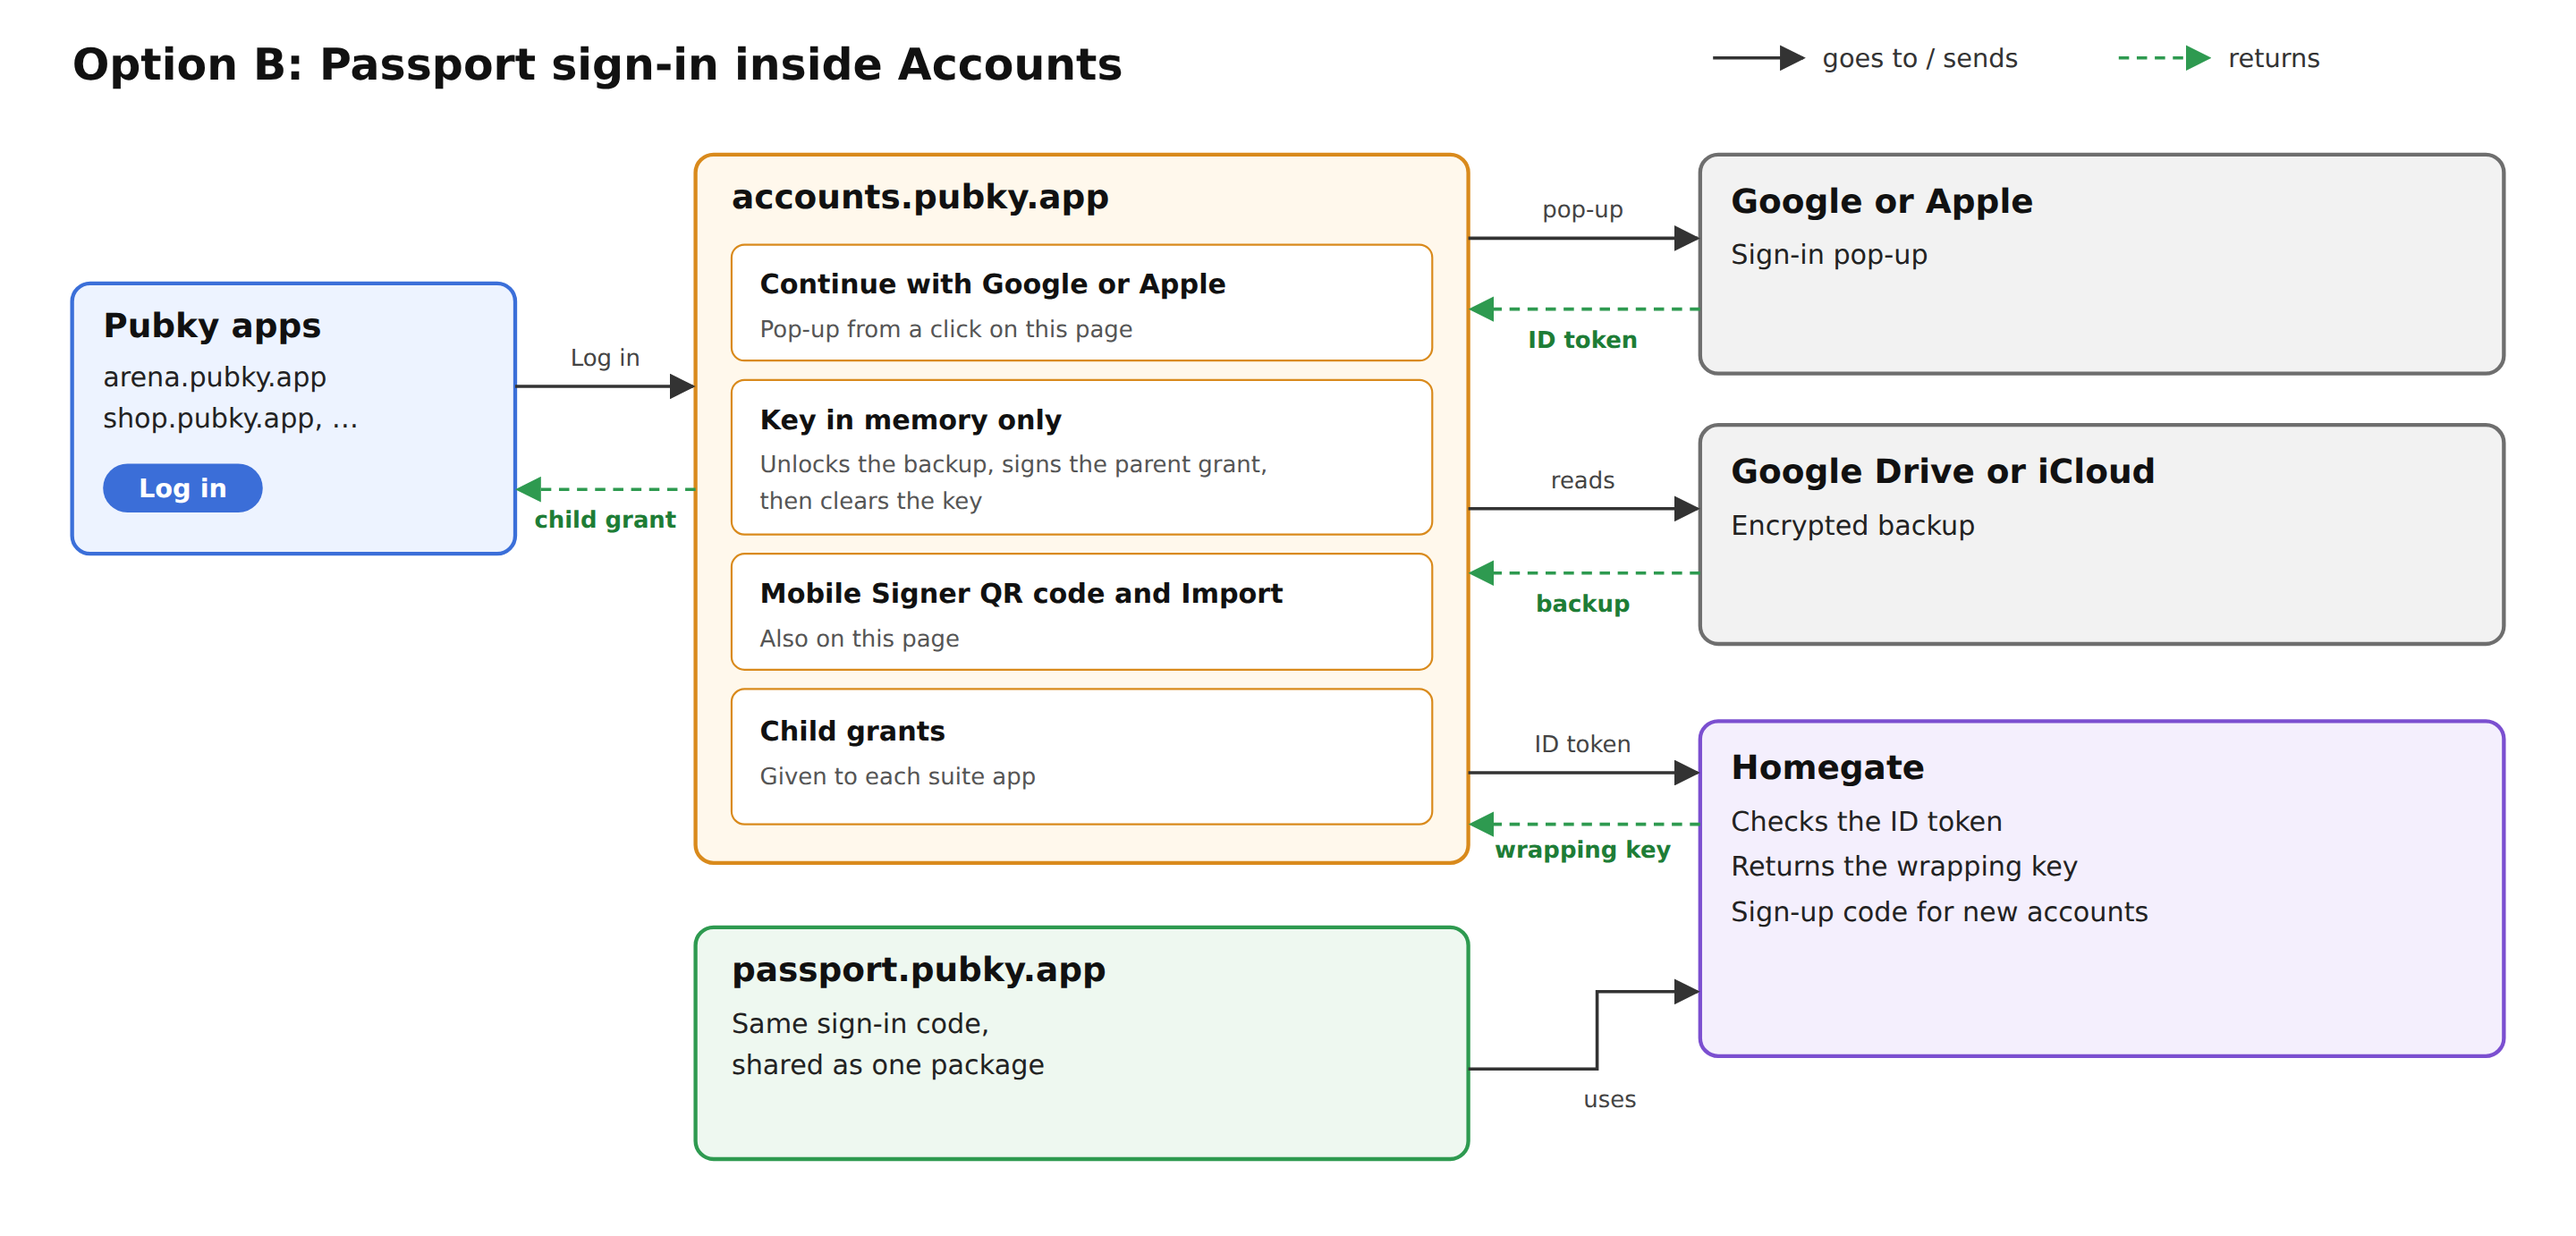
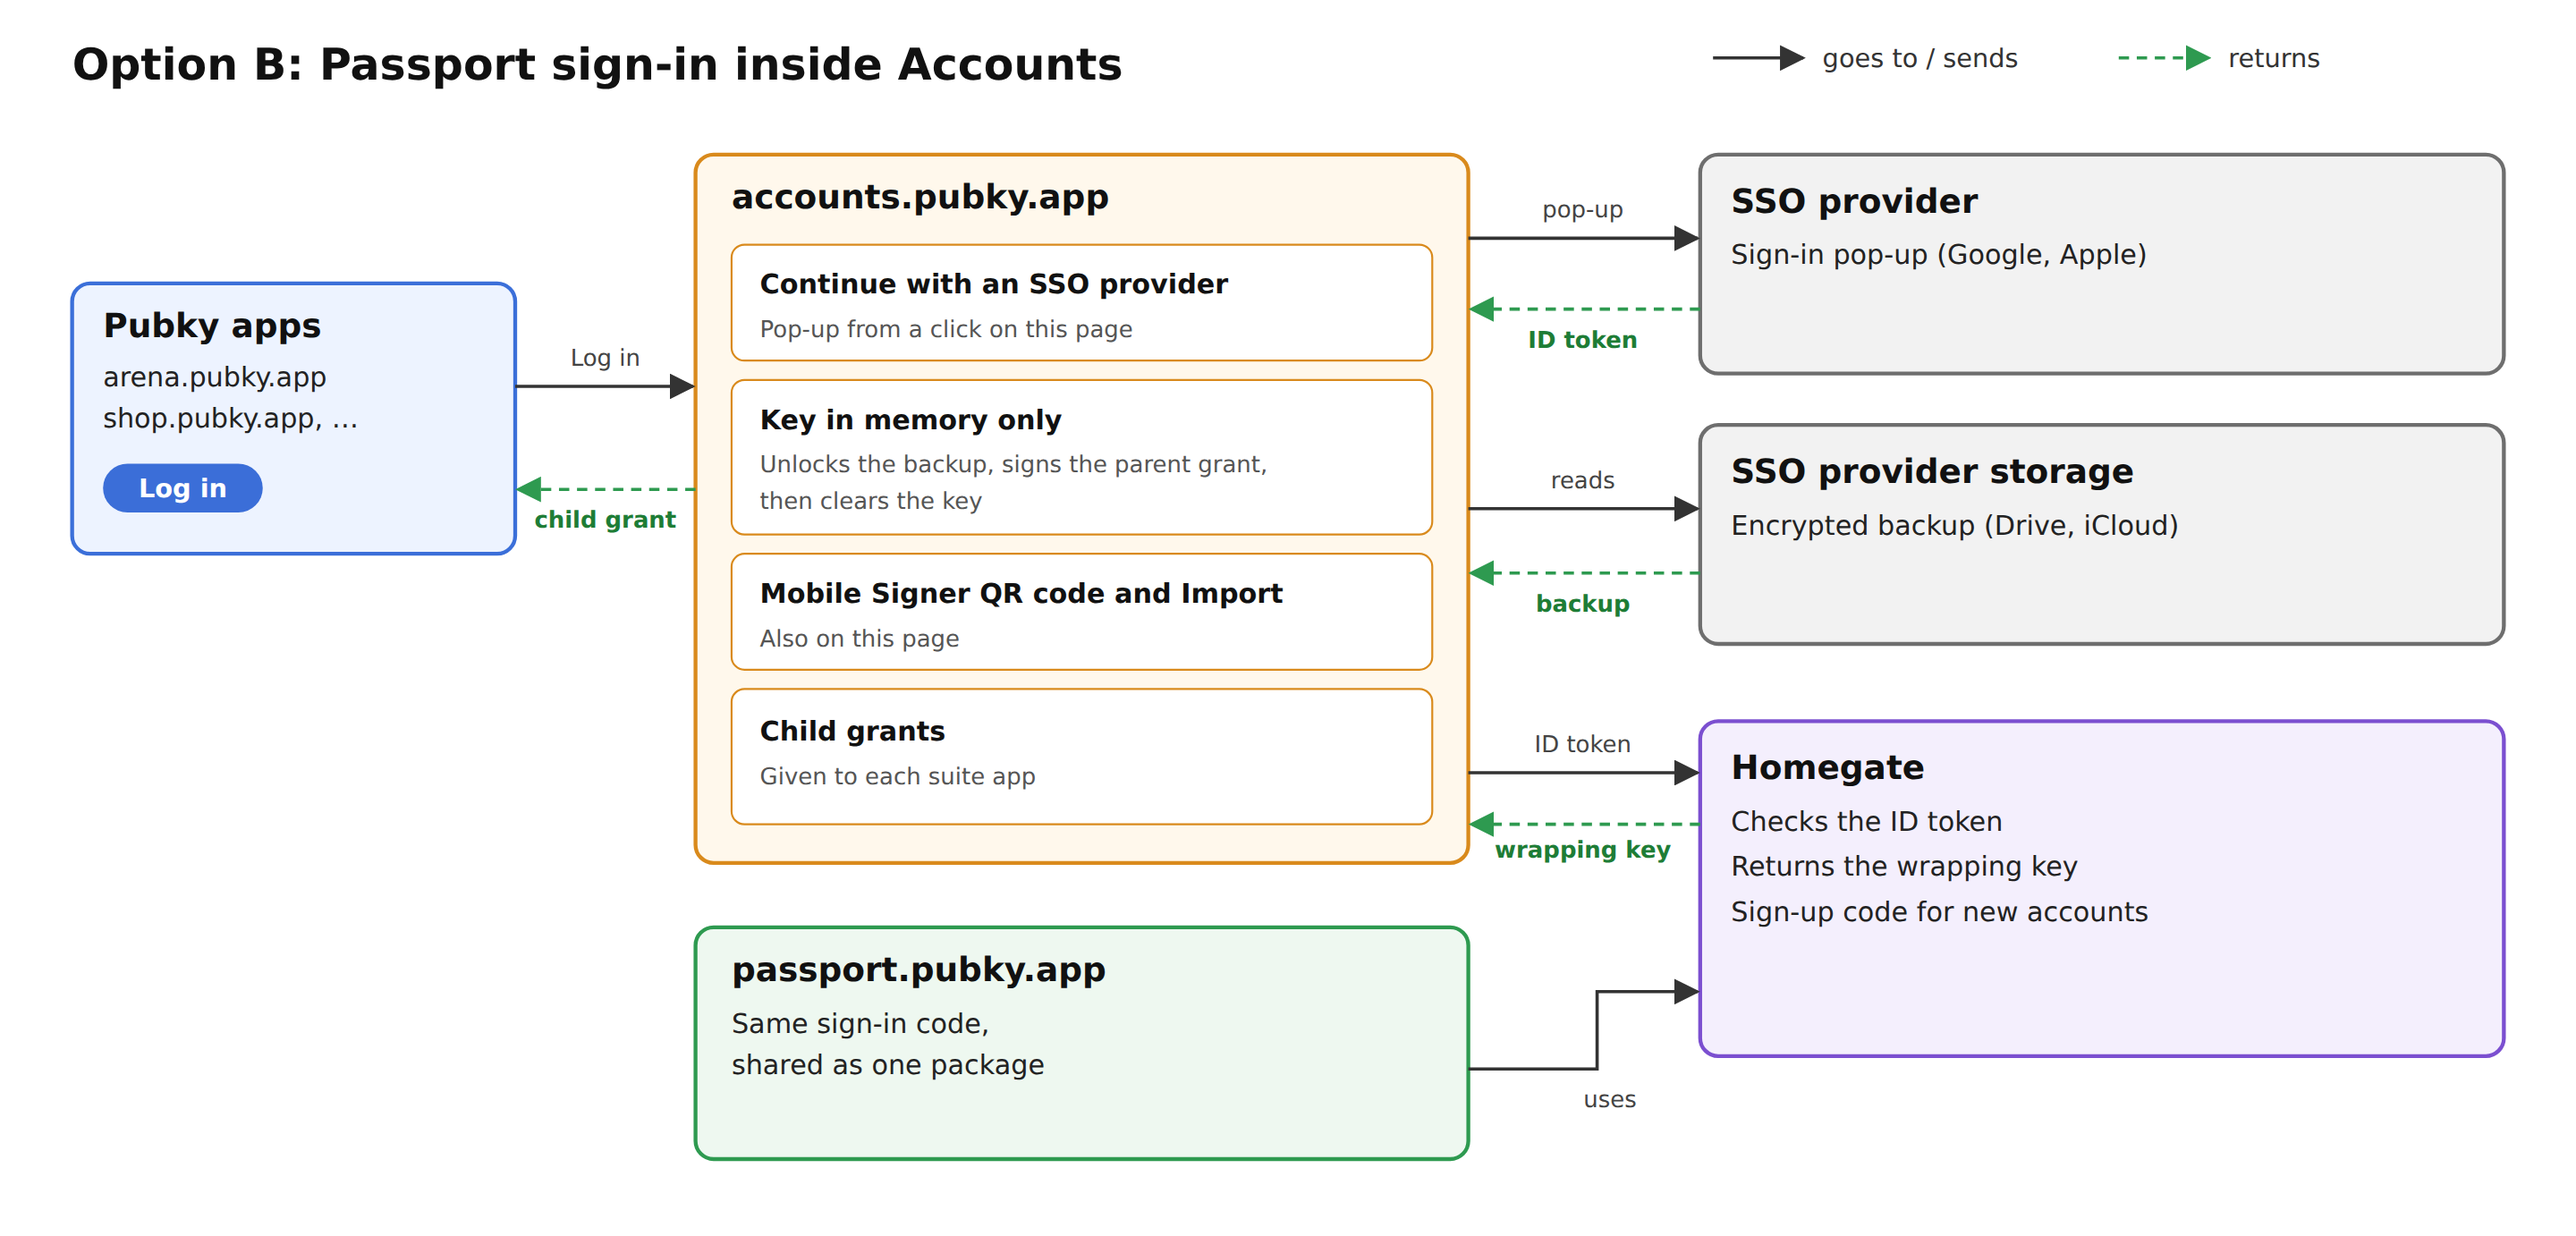
docs(rfc): say SSO provider throughout and add attaching a local identity

Changed region(s): [[0.6562, 0.3734, 0.8438, 0.4356], [0.6562, 0.1556, 0.8438, 0.2178], [0.375, 0.2178, 0.4688, 0.2489]]

diff --git a/docs/rfc/0001-signers-and-accounts.md b/docs/rfc/0001-signers-and-accounts.md
@@ -21,7 +21,9 @@ It's meant for discussion. Nothing in it changes current behavior.
 - Parent grant: a single approval from a Signer that lets Accounts act for you.
 - Child grant: a grant that Accounts gives each suite app. Accounts signs it with its own key, not yours.
 - Relay: the server that carries the signed approval from the Signer back to the app that asked for it.
-- Wrapping key: the key that unlocks your encrypted backup in Google Drive or iCloud. A server derives it after it checks your Google or Apple sign-in.
+- SSO provider: a cloud account you sign in to Passport with. Passport also saves your encrypted backup in that provider's cloud storage. The current options are Google (backup in Google Drive) and Apple (backup in iCloud).
+- SSO identity: a pubky in Passport that is attached to an SSO provider.
+- Wrapping key: the key that unlocks your encrypted backup. A server derives it after it checks your SSO provider sign-in.
 - External app: an app outside the Pubky suite.
 
 ## Problems
@@ -32,11 +34,12 @@ It's meant for discussion. Nothing in it changes current behavior.
 
 ## Current behavior (Live)
 
-- You can sign in to Passport with a Google or Apple Account.
-- Passport keeps your key in the browser and saves an encrypted backup in your Google Drive or iCloud. If you sign in again with the same account, Passport restores the key from that backup.
-- Passport's server checks your Google or Apple sign-in and returns the wrapping key. It never sees the backup or your key.
+- You can sign in to Passport with an SSO provider. Apple is on staging so far; production shows Google only.
+- Passport keeps your key in the browser and saves an encrypted backup with your SSO provider. If you sign in again with the same account, Passport restores the key from that backup.
+- Passport's server checks your SSO provider sign-in and returns the wrapping key. It never sees the backup or your key.
 - You can import an existing pubky with a recovery phrase or a recovery file.
-- Apps open Passport with a `pubkyauth://` request. Passport sends the signed approval through the relay, and the app never gets your key or your Google or Apple Account.
+- You can attach an identity that only lives in this browser, such as an imported one, to an SSO provider. Passport then saves its encrypted backup there, and you can sign in with that provider from then on.
+- Apps open Passport with a `pubkyauth://` request. Passport sends the signed approval through the relay, and the app never gets your key or your SSO account.
 - Passport has no onboarding, profile setup, or homeserver management.
 
 ## How Accounts signs you in
@@ -56,7 +59,7 @@ Accounts sends you to Passport, and Passport sends you back. Accounts signs in t
 
 1. Accounts creates a `pubkyauth://` request for a parent grant and saves the pending request in the browser.
 2. Accounts redirects you to Passport, with the request in the address.
-3. You sign in with Google, Apple, or an imported key. If you already have an identity in Passport, you skip this step.
+3. You sign in with an SSO provider or an imported key. If you already have an identity in Passport, you skip this step.
 4. You review the request and approve it.
 5. Passport sends the signed parent grant through the relay, then redirects you back to Accounts.
 6. Accounts picks up the saved request, receives the parent grant from the relay, and sends you on with a child grant.
@@ -66,12 +69,12 @@ What is passed where:
 - Accounts to Passport: the `pubkyauth://` request (requested access, relay address, and the address to return to).
 - Passport to the relay: the signed parent grant, encrypted for Accounts.
 - Passport to Accounts: a redirect back. The redirect isn't a credential. Accounts trusts only what it gets from the relay.
-- Stays in Passport: your key and your Google or Apple Account.
+- Stays in Passport: your key and your SSO account.
 
 Benefits:
 
 - No new backend. Passport works as it does today.
-- Keys and Google and Apple sign-in stay on one site, so only one site needs security review for them.
+- Keys and SSO provider sign-in stay on one site, so only one site needs security review for them.
 - Signing in to Accounts looks and works like signing in to any app that uses Passport.
 - If you already use Passport in this browser, signing in to Accounts takes one approval.
 
@@ -86,19 +89,19 @@ Accounts could open Passport in a pop-up instead of a redirect. The existing Pas
 
 ### Option B: Passport sign-in inside Accounts
 
-Accounts shows Continue with Google, Continue with Apple, the Mobile Signer QR code, and Import on its own page. The wrapping key endpoint moves from Passport's server into Homegate, so Accounts and Passport use the same backend.
+Accounts shows the SSO provider buttons, the Mobile Signer QR code, and Import on its own page. The wrapping key endpoint moves from Passport's server into Homegate, so Accounts and Passport use the same backend.
 
-1. You select Continue with Google or Continue with Apple on the Accounts page. The provider opens in a pop-up.
+1. You select an SSO provider on the Accounts page. The provider opens in a pop-up.
 2. Accounts sends the provider's ID token to Homegate. Homegate checks it and returns the wrapping key. For a new account, Homegate also returns a sign-up code.
-3. Accounts reads your encrypted backup from Google Drive or iCloud and unlocks it in memory.
+3. Accounts reads your encrypted backup from the provider's cloud storage and unlocks it in memory.
 4. Accounts signs the parent grant with your key, then clears the key.
 5. Accounts sends you on with a child grant.
 
 What is passed where:
 
-- Google or Apple to Accounts: an ID token, plus access to the backup in Drive or iCloud.
+- SSO provider to Accounts: an ID token, plus access to the backup in its cloud storage.
 - Accounts to Homegate: the ID token. Homegate returns the wrapping key.
-- Drive or iCloud to Accounts: the encrypted backup.
+- The provider's cloud storage to Accounts: the encrypted backup.
 - Stays in Accounts' memory for a moment: your key. It's cleared after signing.
 
 Benefits:
@@ -109,11 +112,11 @@ Benefits:
 Tradeoffs:
 
 - Two sites handle private keys, which doubles what needs security review.
-- Every provider change must land in both sites. Sharing Passport's sign-in code as one package reduces this but doesn't remove it.
+- Every SSO provider change must land in both sites. Sharing Passport's sign-in code as one package reduces this but doesn't remove it.
 - Homegate must derive the same wrapping key as Passport's server does today. Otherwise existing backups can't be unlocked.
 - Each backup is tied to Passport's address today, and Passport checks that address when it opens a backup. Accounts would have to open backups as Passport, which needs a change and its own review.
-- Both sites must use the same Google client and Apple Services ID to reach the same backup. Access from a second address hasn't been tested yet.
-- Accounts doesn't see the identities Passport keeps in the browser. Someone already signed in to Passport signs in again with Google or Apple.
+- Both sites must use the same SSO provider setup (today a Google client and an Apple Services ID) to reach the same backup. Access from a second address hasn't been tested yet.
+- Accounts doesn't see the identities Passport keeps in the browser. Someone already signed in to Passport signs in again with their SSO provider.
 
 ![Option B: Passport sign-in inside Accounts](images/0001-2-option-b-accounts-sign-in.png)
 
@@ -121,7 +124,7 @@ Tradeoffs:
 
 Start with Option A. It needs no new backend, and Accounts uses Passport like any other app. If the redirect turns out to cause friction, move to Option B.
 
-We don't plan to embed Passport in an iframe. Browsers handle iframe storage and Google and Apple sign-in differently, so it wouldn't work the same everywhere.
+We don't plan to embed Passport in an iframe. Browsers handle iframe storage and SSO provider sign-in differently, so it wouldn't work the same everywhere.
 
 ## What Passport can become
 
@@ -135,12 +138,12 @@ Some examples of what it could offer:
 - Homeserver tools, such as a file explorer, backups, mirroring, and storage quota.
 - An interface for Homegate.
 - Stronger key protection in the browser, such as a PIN, a passkey, or biometrics.
-- Not keeping keys in the browser. Passport would use a grant for everyday tasks and load the key only when it needs to sign. This works only for Google and Apple identities, because they can reload the key from their cloud backup.
+- Not keeping keys in the browser. Passport would use a grant for everyday tasks and load the key only when it needs to sign. This works only for SSO identities, because they can reload the key from their backup.
 
 ![What Passport can become, with examples](images/0001-3-what-passport-can-become.png)
 
 ### Self-hosting
 
-With the wrapping key in Homegate, Passport becomes a frontend for any Homegate. You could self-host Homegate, or use a provider other than Synonym. Each Homegate needs its own Google and Apple setup.
+With the wrapping key in Homegate, Passport becomes a frontend for any Homegate. You could self-host Homegate, or use a provider other than Synonym. Each Homegate needs its own SSO provider setup.
 
-A Google or Apple identity is tied to the backend that created it. To move it to another one, export a recovery file and import it there. This could be handled inside the Passport UI.
+An SSO identity is tied to the backend that created it. To move it to another one, export a recovery file and import it there. This could be handled inside the Passport UI.
